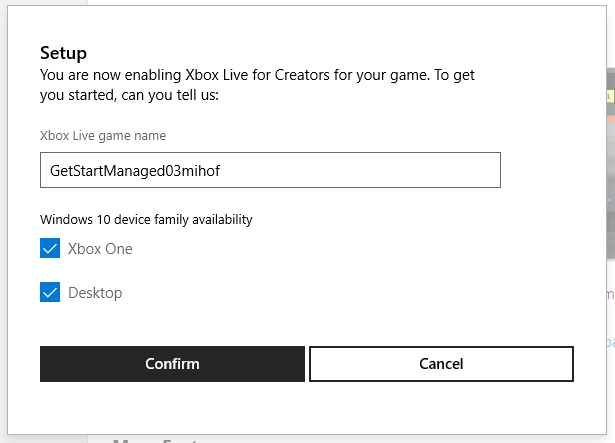
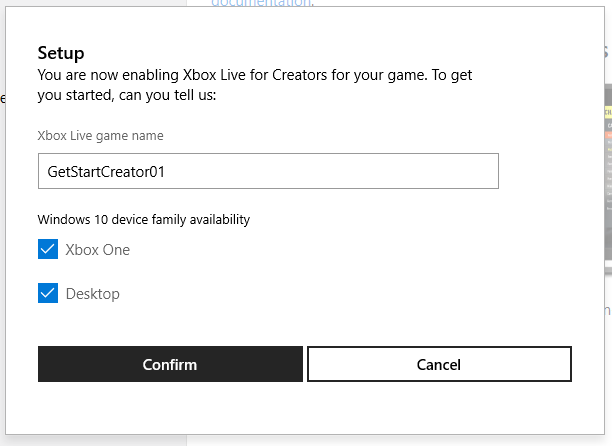
fresh captures showing Creator not Managed

diff --git a/xbox-live-docs-pr/get-started/setup-partner-center-creators.md b/xbox-live-docs-pr/get-started/setup-partner-center-creators.md
@@ -26,7 +26,7 @@ To add Xbox Live functionality to your game, start by setting up an app in Partn
 <!--===========================================================-->
 ## 1. Create a new app
 
-Next, at Partner Center, create a new app, as follows.
+At Partner Center, create a new app representing your game, as follows.
 
 1. Right-click the following link and then click **Open in new window**: [Partner Center dashboard](https://partner.microsoft.com/dashboard/).
 
@@ -44,19 +44,26 @@ Next, at Partner Center, create a new app, as follows.
 
 3. In the text box, enter the name of your product.
    You can change the name later.
+   <!-- GetStartCreator01mihof -->
 
-   Note: If you see option buttons **Create this product in a sandbox** and **Do not create this product in a sandbox**, select **Do not create this product in a sandbox**.
+4. If you see option buttons **Create this product in a sandbox** and **Do not create this product in a sandbox**, you must select the option button **Do not create this product in a sandbox**.
 
-4. Click the **Reserve product name** button.
+5. Click the **Reserve product name** button.
 
    The "App overview" page appears.
 
    <!-- status: ok -->
    ![](images/pc_app_overview01_pg.png)
 
-5. Click the **Start your submission** button.
+6. Click the **Start your submission** button.
 
    After a delay, the Submission page appears, showing the submission number; for example, "Submission 1".
+
+   <!-- todo: ok? -->
+   ![](images/pc_cr_initl_submission_pg.png)
+
+   In the "Xbox Live Creators Program" section of the page, the message appears:
+   "To enable Xbox Live Creators Program, the product's category (on the Properties page) must be Games."
 
    Your app has now been created at Partner Center and is awaiting being Xbox Live-enabled.
 
@@ -70,8 +77,11 @@ Next, at Partner Center, create a new app, as follows.
 
    The "Properties" page appears.
 
-2. In the **Pick a category** drop-down, select the **Games** category.
-   Do not select a category other than Games, or else the "Xbox Live" options won't appear, below.
+   <!-- todo: ok? -->
+   ![](images/pc_cr_initl_properties_pg.png)
+
+2. In the **Category and subcategory** section, in the **Pick a category** drop-down, select the **Games** category.
+   Do not select a category other than Games, or else the "Xbox Live" options won't be available.
 
    Because you selected Games, the "Genre(s) section appear.
 
@@ -85,23 +95,26 @@ Next, at Partner Center, create a new app, as follows.
 
 4. Scroll down to the bottom of the page, and click the **Save** button.
 
-   The "Submission #" page reappears, and now includes a "Xbox Live Creators Program" section.
+   The "Submission #" page reappears, and the "Xbox Live Creators Program" section of the page is now available.
 
    <!-- todo: ok? -->
-   ![](images/pc_cr_submission_pg_access_pol.png)
+   ![](images/pc_cr_2nd_submission_pg.png)
 
 5. Click the **Xbox Live Creators Program** section in the page.
 
    The "Enable Xbox Live Creators Program" page appears.
 
-   <!-- status: ? -->
-   ![](images/pc_creators_enablexbl_pg.png)
+   <!-- status: ok? -->
+   ![](images/pc_cr_enablexblcrpgm_pg.png)
 
 6. Click the **Enable** button.
 
   The "Setup" dialog box appears.
 
-   <!-- status: remove mihof -->
+7. In the **Xbox Live game name** text box, enter the name of your game.
+   This can be the same as the name of the app you specified at the beginning, but it doesn't need to be the same.
+
+   <!-- status: ok -->
    ![](images/pc_cr_setup_dbx.png)
 
 7. Click the **Confirm** button.
@@ -109,7 +122,7 @@ Next, at Partner Center, create a new app, as follows.
    Below the Confirm button, the message temporarily appears:
    "Your product is being Xbox Live enabled. This may take a few minutes."
 
-   Then the "Xbox Live Creators Program" page appears, with the message "Please ensure to publish your changes to Xbox Live before you can upload files to global storage."
+   Then the "Xbox Live Creators Program" page appears, with the message at the top "Please ensure to publish your changes to Xbox Live before you can upload files to global storage."
 
    <!-- status: clean up -->
    ![](images/pc_cr_xbl_creators_pgm_pg.png)
@@ -163,6 +176,9 @@ To do this, you take the identity information that was generated above, and push
 In Partner Center, with your game selected as in the above procedures, do the following.
 
 <!-- no Publish link for Creators -->
+
+   <!-- status: take capture showing the Publish link -->
+   ![](images/XX.png)
 
 1. In the top right, click the **Publish** link.
 

diff --git a/xbox-live-docs-pr/get-started/write-sign-in-code.md b/xbox-live-docs-pr/get-started/write-sign-in-code.md
@@ -68,7 +68,6 @@ You will need to initialize Xbox Authentication Library (XAL) before adding a us
 ```
 
 
-
 <!--========================================================================-->
 ## Initialize XSAPI (Xbox Services API)
 
@@ -83,6 +82,8 @@ You will need to initialize XSAPI before calling other Xbox Service APIs:
 
 <!--========================================================================-->
 ## Integrate Sign-In Silently
+
+See also the "Sign-in silent example" subsection within the article [Sign-in with XAL](../using-xbox-live/auth/xal-sign-in.md#sign-in).
 
 You should first attempt to add the user automatically without showing any UI.
 ```c
@@ -123,6 +124,8 @@ You should first attempt to add the user automatically without showing any UI.
 
 <!--========================================================================-->
 ## Integrate Sign-In with UI
+
+See also the "Sign-in with UI example" subsection within the article [Sign-in with XAL](../using-xbox-live/auth/xal-sign-in.md#sign-in).
 
 If the user could not be added silently - for example if the user needs to give consent to the game for accessing Xbox Live profile, you should call the XalAddUserWithUiAsync API to add the user with UI.
 ```c
@@ -184,9 +187,12 @@ If the user could not be added silently - for example if the user needs to give 
 <!--========================================================================-->
 ## Integrate Sign-Out
 
+See the "Sign-out" subsection within the article [Sign-in with XAL](../using-xbox-live/auth/xal-sign-in.md#sign-out).
+
 
 <!--========================================================================-->
 ## Test Sign-In/Sign-Out
+
 
 
 <!--========================================================================-->

diff --git a/xbox-live-docs-pr/get-started/setup-android-studio.md b/xbox-live-docs-pr/get-started/setup-android-studio.md
@@ -60,6 +60,12 @@ To register go to https://developer.microsoft.com/en-us/store/register and follo
 
 
 <!--===================================================-->
+## Configure Android Studio to use CMake and the NDK
+
+Native Development Kit (NDK)
+
+
+<!--===================================================-->
 ## Configure Android Studio to use the Xbox Live SDK
 
 * Open the make or CMake file that builds your existing game project.
